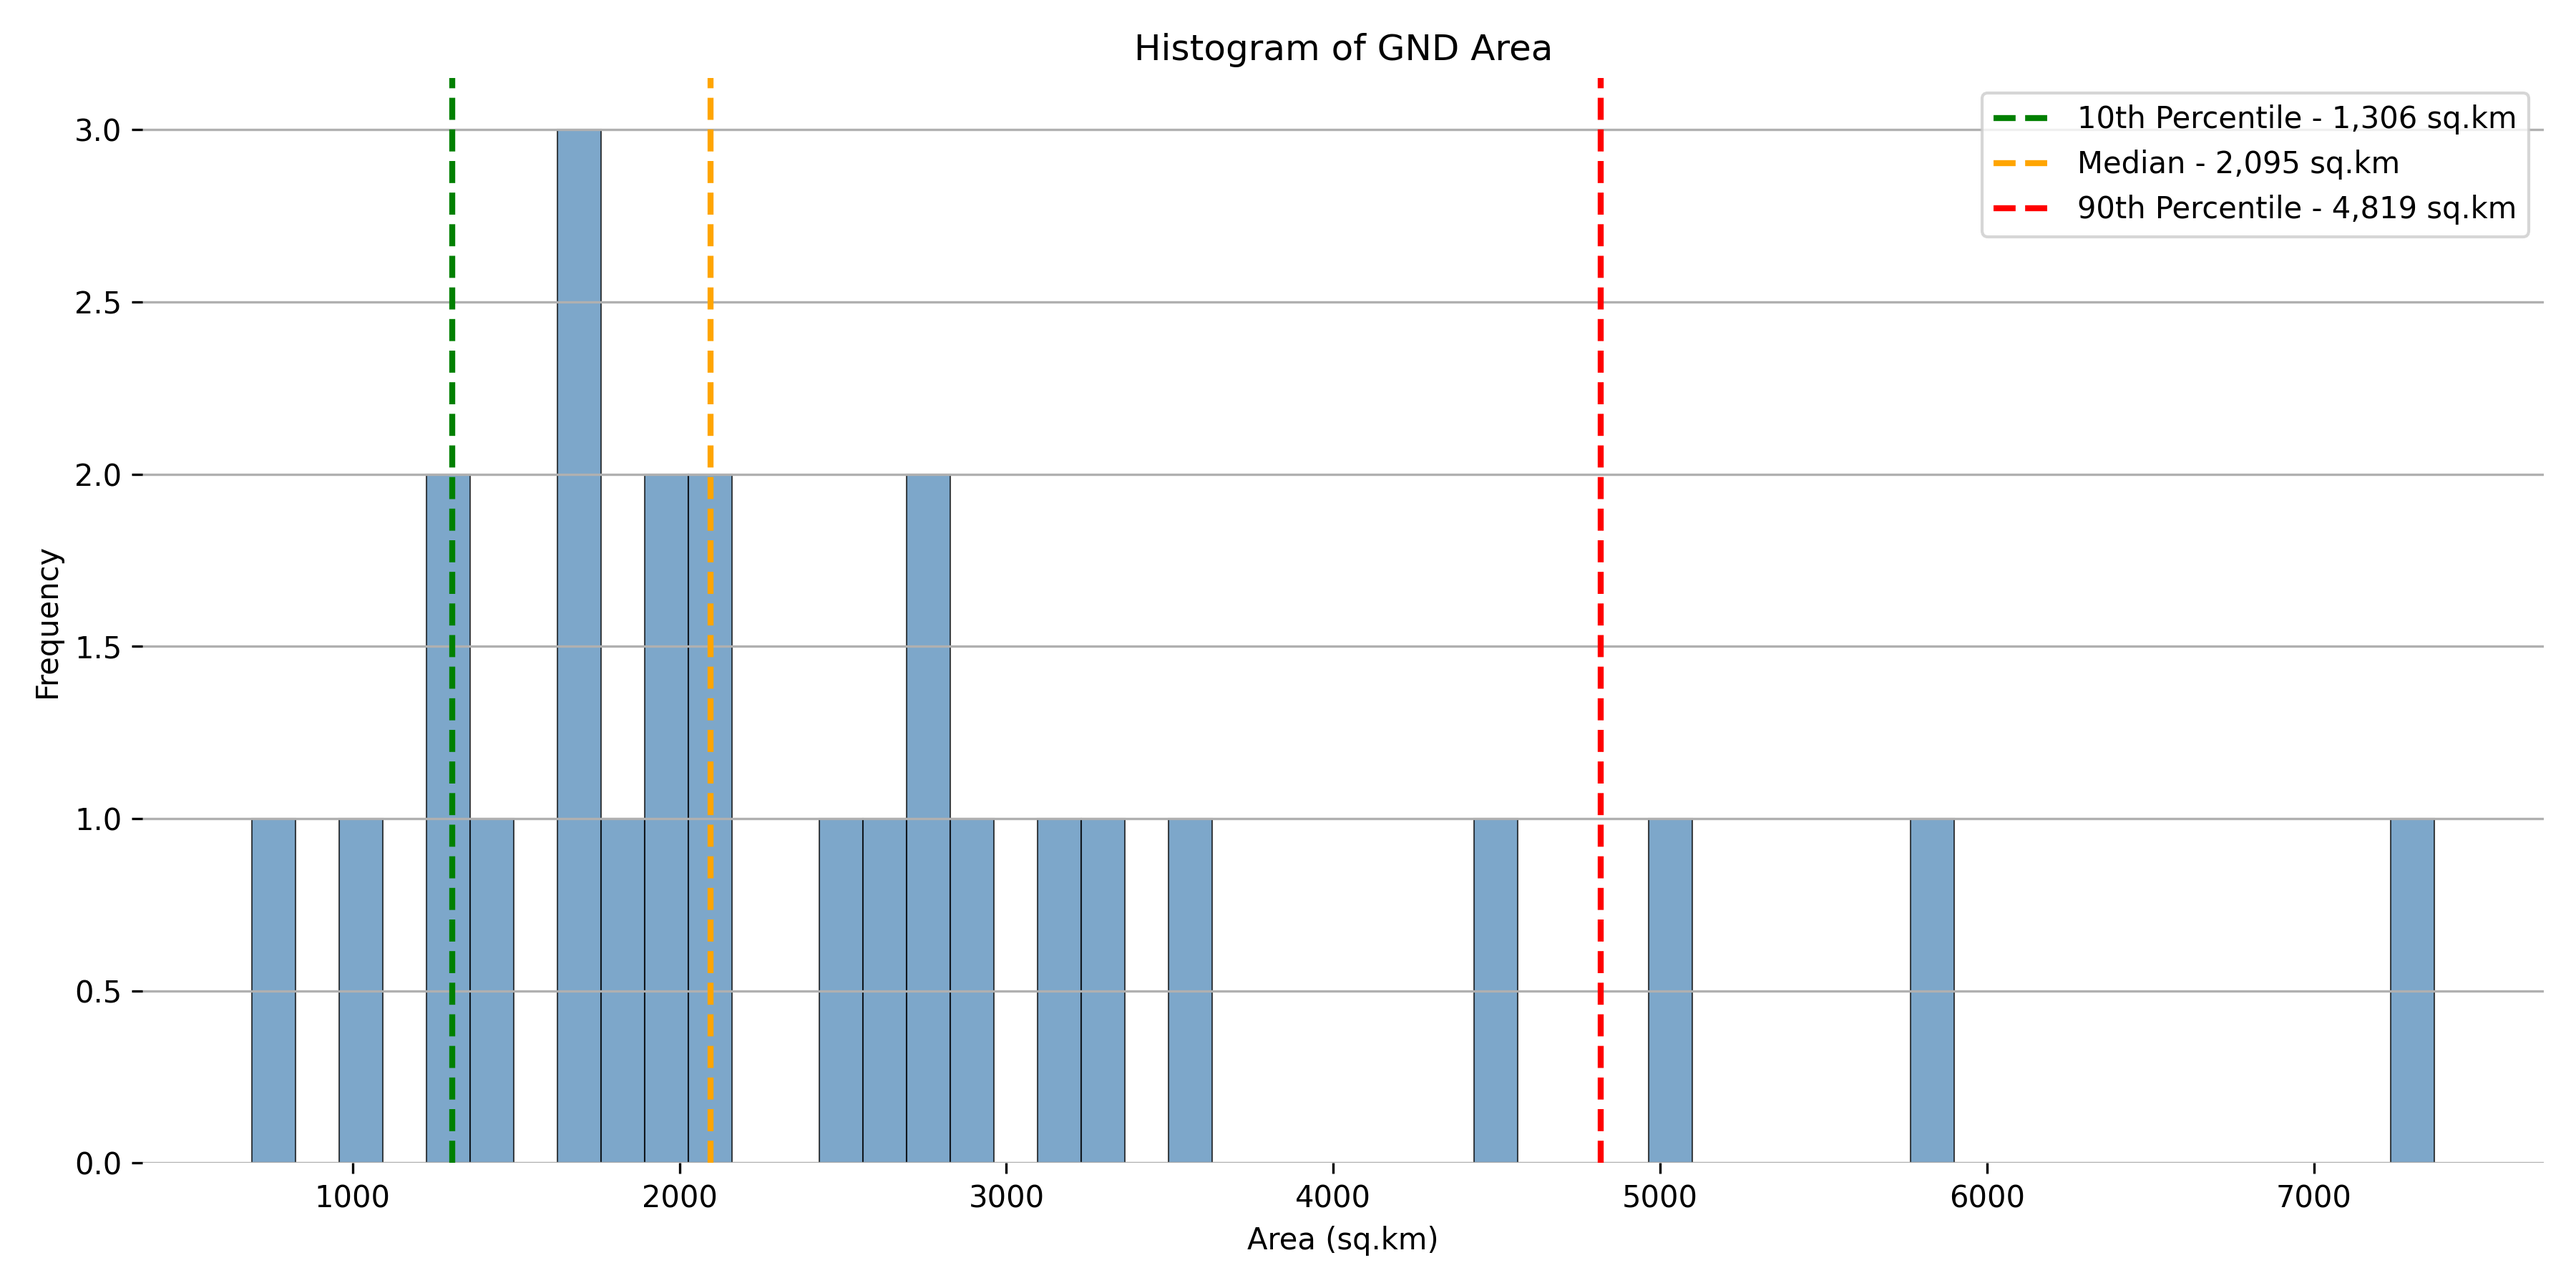
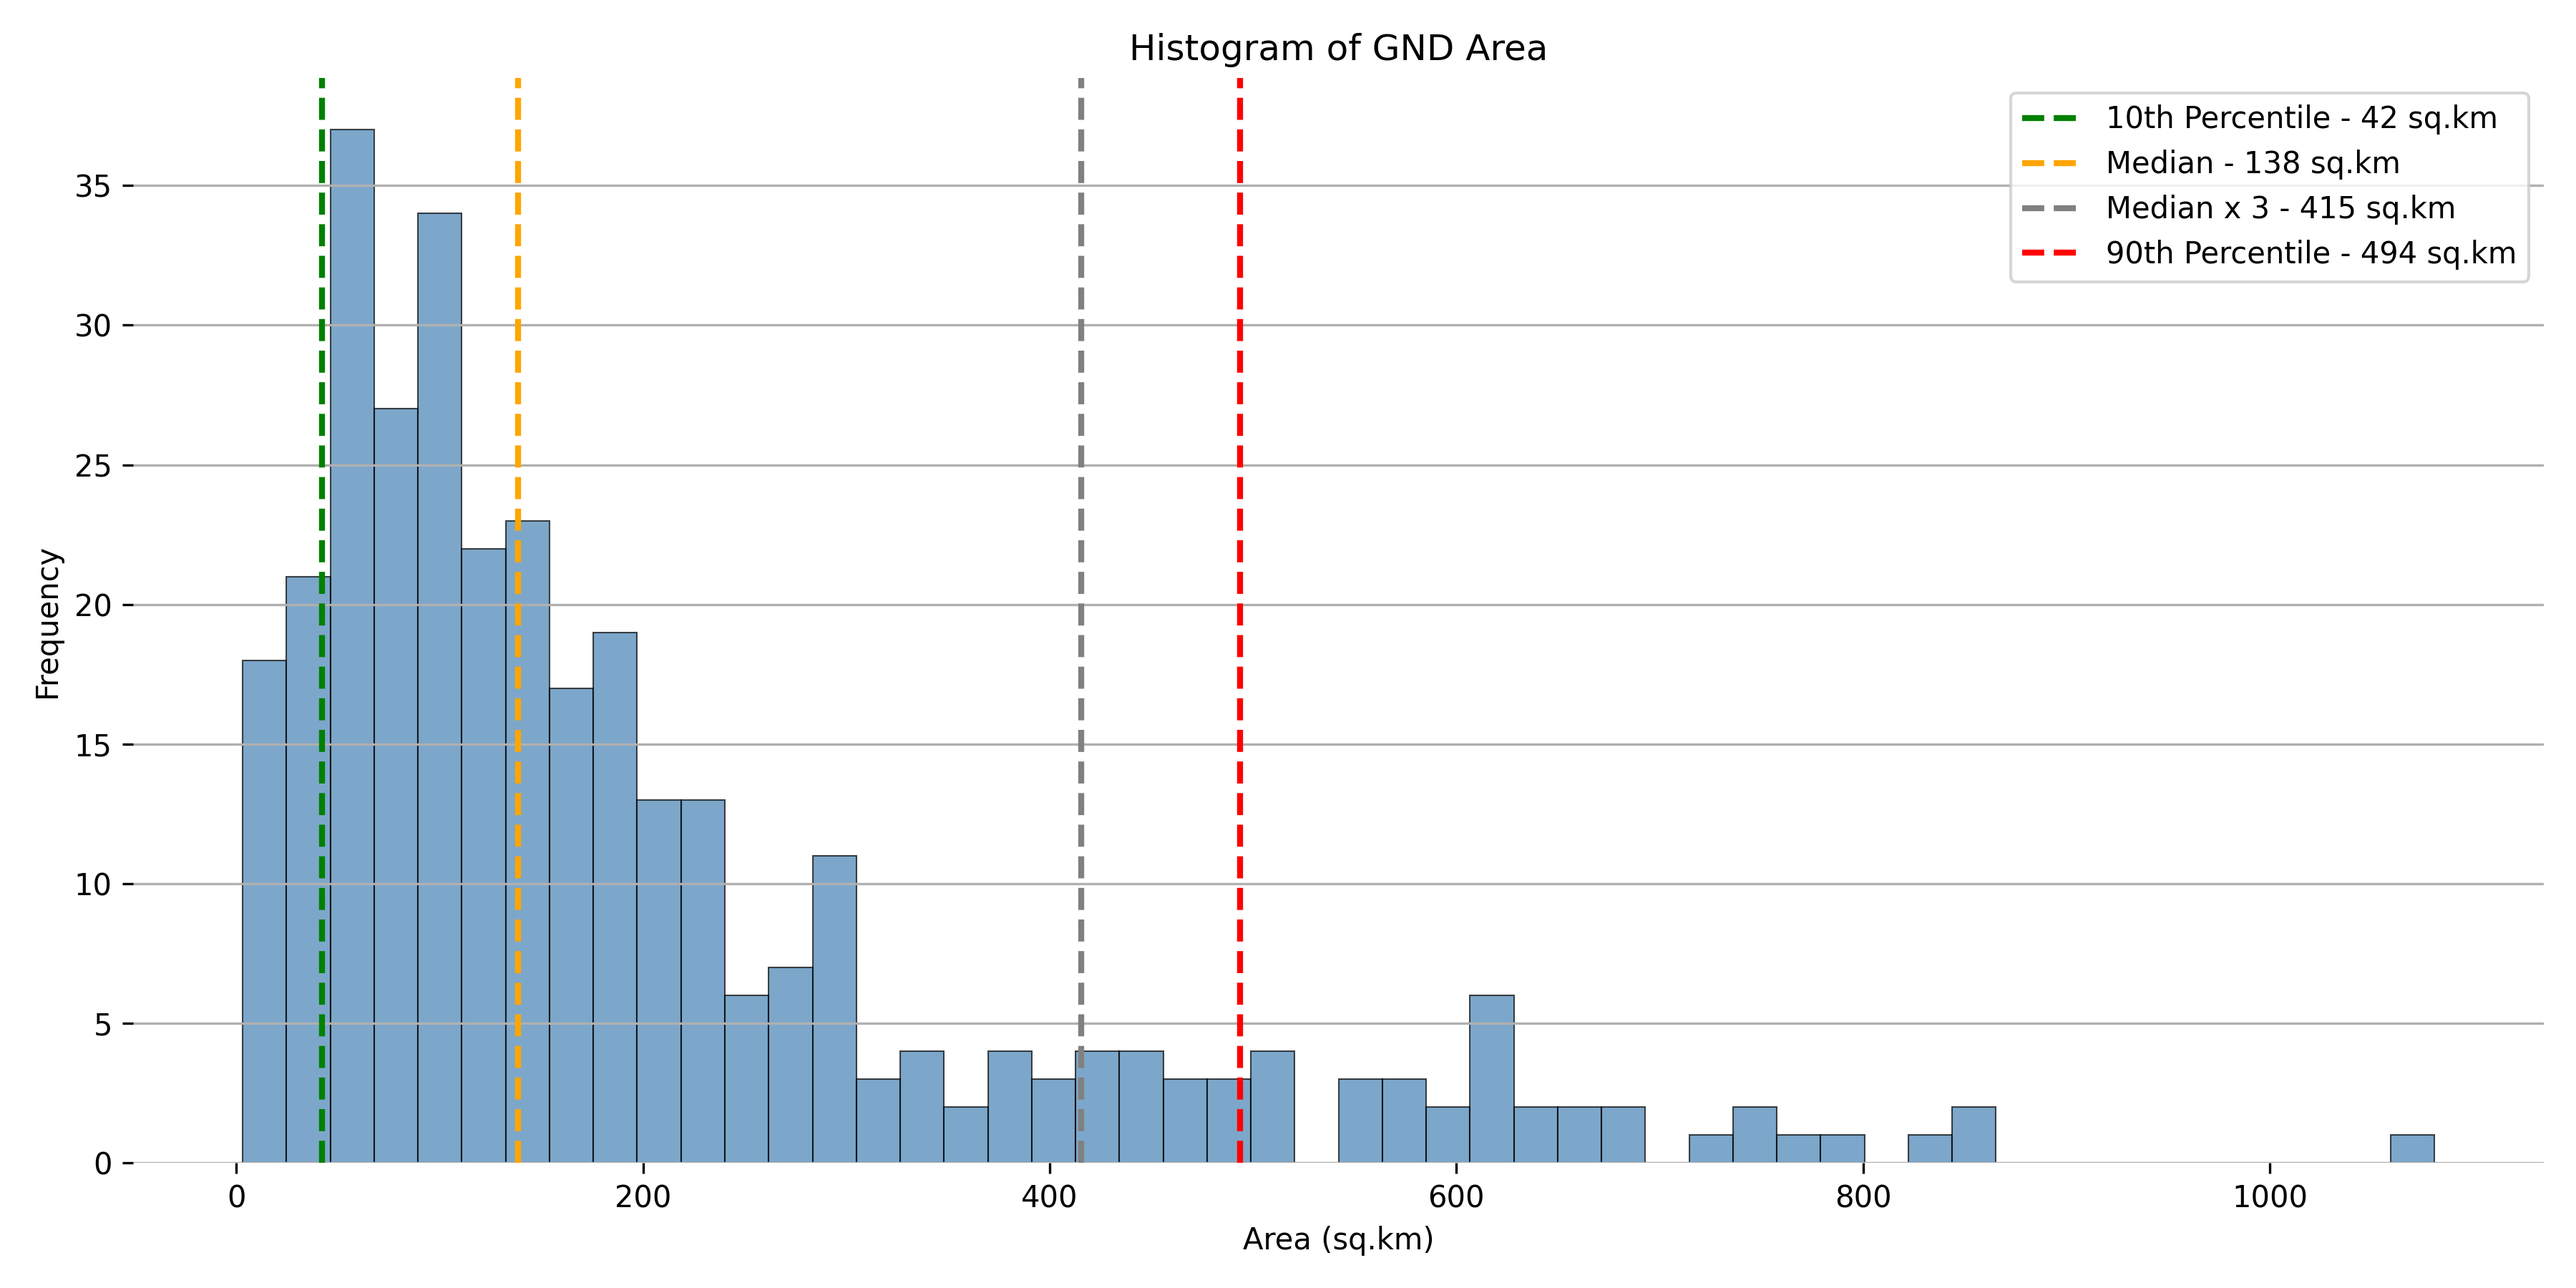
Update entity type to DSD, enhance histogram and scatter plot annotations, and add reasonable thresholds for population and area

diff --git a/example_analyses/gnds/__main__.py b/example_analyses/gnds/__main__.py
@@ -9,7 +9,8 @@ from gig import Ent, EntType
 
 log = Log(os.path.basename(os.path.dirname(__file__)))
 
-ENT_TYPE = EntType.DISTRICT
+ENT_TYPE = EntType.DSD
+REASONABLE_FACTOR = 3
 
 
 def draw_histogram(title, values, unit):
@@ -23,12 +24,14 @@ def draw_histogram(title, values, unit):
         linewidth=0.5,
     )
 
-    median_pop = np.median(values)
+    median = np.median(values)
     p10 = stats.scoreatpercentile(values, 10)
     p90 = stats.scoreatpercentile(values, 90)
+    max_reasonable = median * REASONABLE_FACTOR
     for [value, label, color] in [
         [p10, "10th Percentile", "green"],
-        [median_pop, "Median", "orange"],
+        [median, "Median", "orange"],
+        [max_reasonable, f"Median x {REASONABLE_FACTOR}", "gray"],
         [p90, "90th Percentile", "red"],
     ]:
         plt.axvline(
@@ -63,10 +66,27 @@ def draw_xy_plot(ents):
     areas = [ent.area for ent in ents]
 
     plt.figure(figsize=(12, 8))
-    plt.scatter(areas, populations, alpha=0.6, color="steelblue", s=50)
+    plt.scatter(areas, populations, alpha=0.6)
+
+    median_population = np.median(populations)
+    median_area = np.median(areas)
+    max_reasonable_population = median_population * REASONABLE_FACTOR
+    max_reasonable_area = median_area * REASONABLE_FACTOR
 
     # Annotate each point with entity name
     for ent in ents:
+        population, area = ent.population, ent.area
+        unreasonable_population = population > max_reasonable_population
+        unreasonable_area = area > max_reasonable_area
+        if unreasonable_population and unreasonable_area:
+            color = "red"
+        elif unreasonable_population:
+            color = "orange"
+        elif unreasonable_area:
+            color = "blue"
+        else:
+            color = "gray"
+
         plt.annotate(
             ent.name,
             xy=(ent.area, ent.population),
@@ -74,6 +94,7 @@ def draw_xy_plot(ents):
             textcoords="offset points",
             fontsize=6,
             alpha=0.7,
+            color=color,
         )
 
     plt.xlabel("Area (sq.km)")
